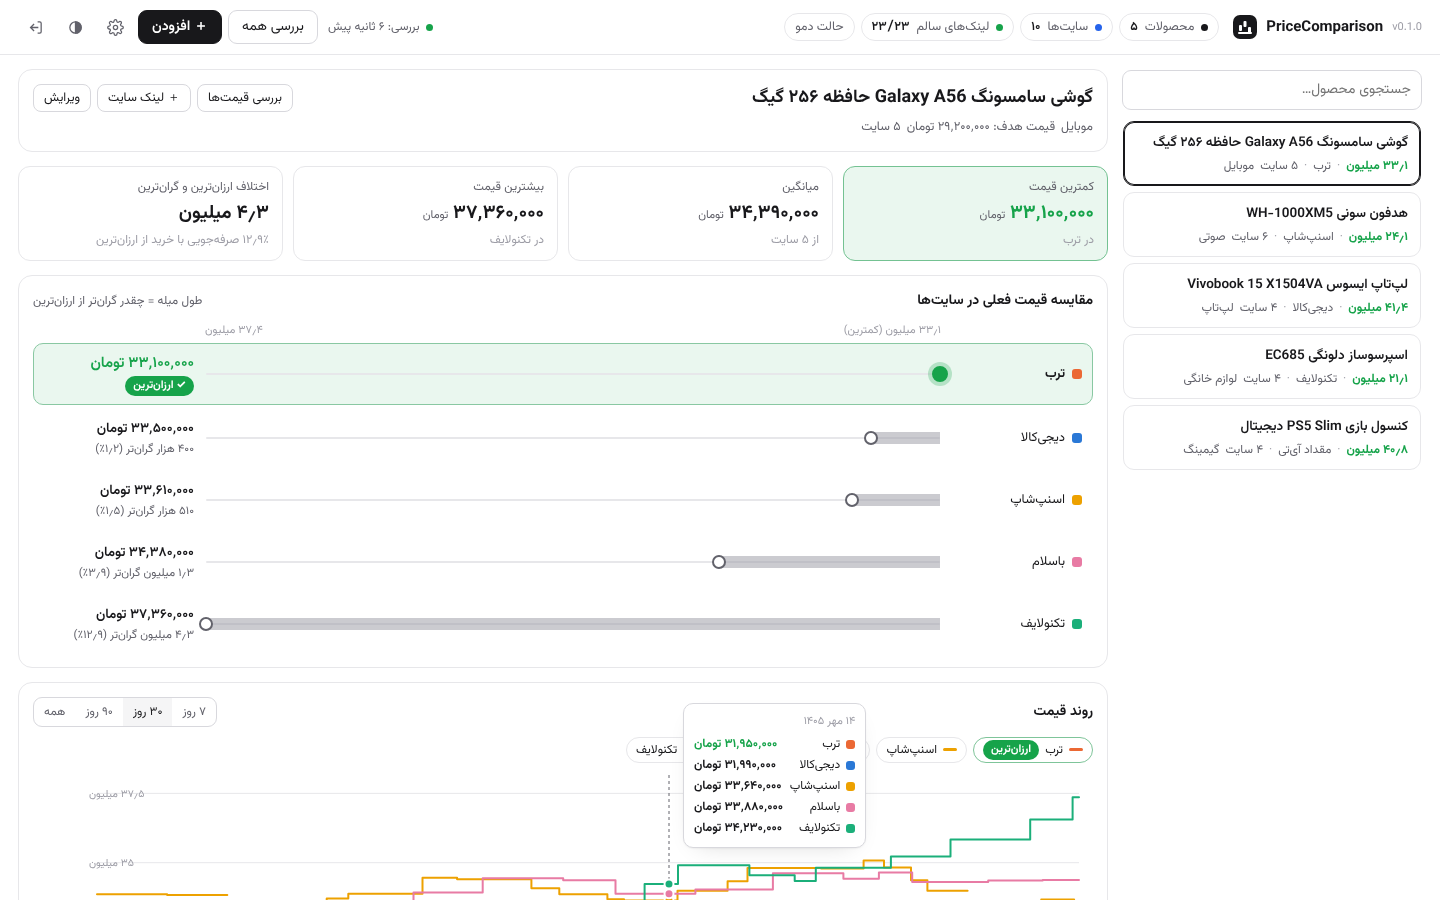
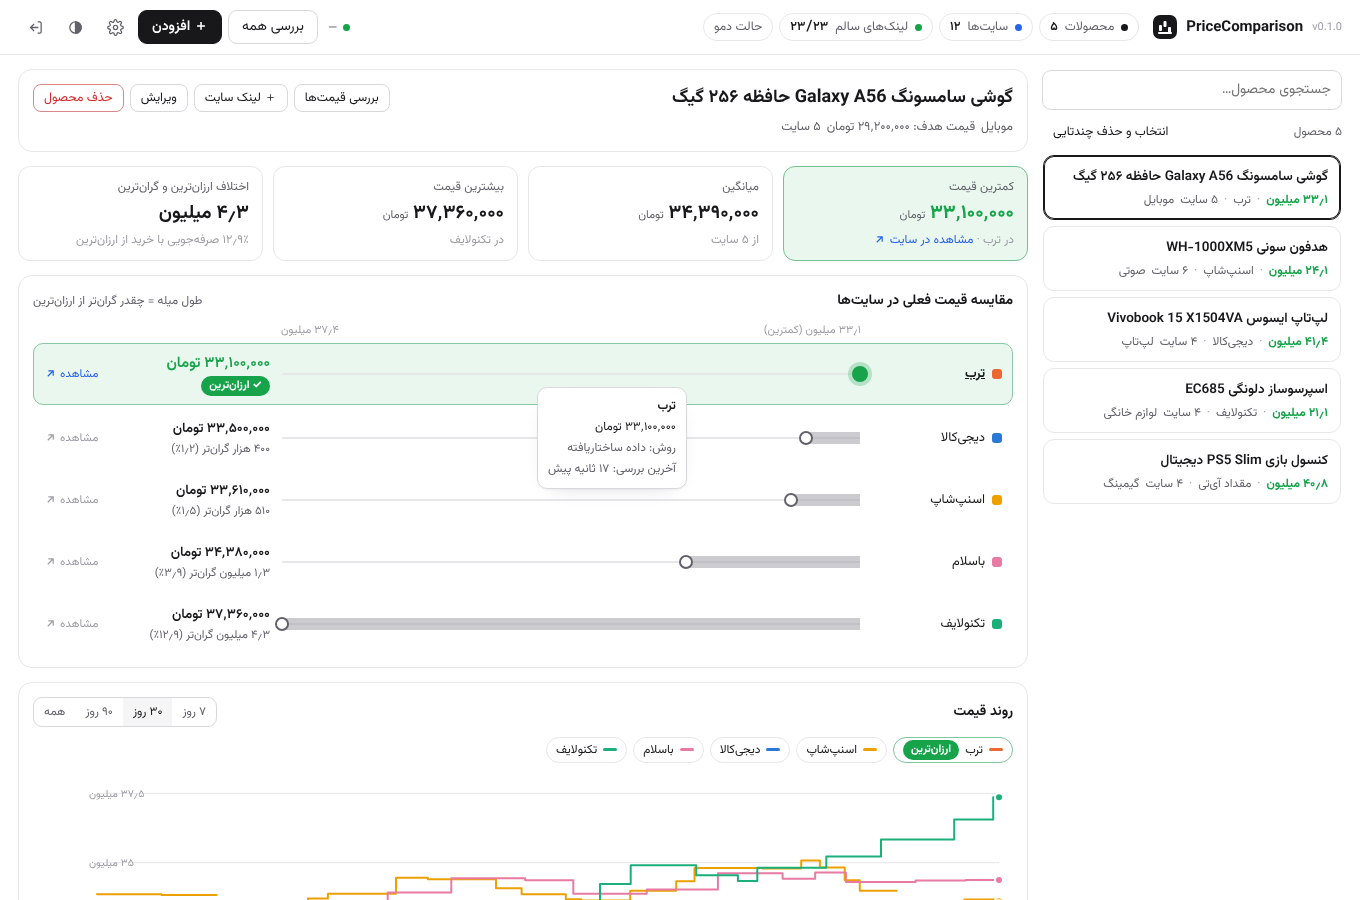
Open a product on the shop's site, delete products singly or in bulk
Every shop row in the comparison chart is now a link to that product's
page on the shop (new tab), as are the cheapest-price tile and the shop
name in the links table. Deleting a product moves to the product header,
and the product list gets a multi-select mode to delete many at once,
backed by POST /api/products/delete.

Claude-Session: https://claude.ai/code/session_01UvKrJnp3iHtxL17mNZLV8n

diff --git a/pricecomparison/static/app.js b/pricecomparison/static/app.js
@@ -70,6 +70,7 @@ function short(v) {
 }
 const pct = (v) => `${nf1.format(v)}٪`;
 const site = (id) => S.sites.find((s) => s.id === id);
+const shopLink = (o, label) => `<a class="shop" href="${esc(o.url)}" target="_blank" rel="noopener noreferrer">${label} ${ICON.go}</a>`;
 const product = (id) => S.products.find((p) => p.id === id);
 const offersOf = (pid) => S.offers.filter((o) => o.product_id === pid);
 const sname = (id) => (site(id) || {}).name || "?";
@@ -110,8 +111,8 @@ function clock(ts) {
 }
 const date = (ts, opt = { month: "short", day: "numeric" }) => new Date(ts * 1000).toLocaleDateString("fa-IR", opt);
 const ICON = {
+  go: `<svg viewBox="0 0 24 24" width="13" height="13" fill="none" stroke="currentColor" stroke-width="2.2"><path d="M7 17 17 7M8 7h9v9"/></svg>`,
   check: `<svg viewBox="0 0 24 24" width="15" height="15" fill="none" stroke="currentColor" stroke-width="2"><path d="M3 12a9 9 0 1 0 3-6.7L3 8M3 3v5h5"/></svg>`,
-  open: `<svg viewBox="0 0 24 24" width="15" height="15" fill="none" stroke="currentColor" stroke-width="2"><path d="M14 4h6v6M20 4l-9 9M18 14v5a1 1 0 0 1-1 1H5a1 1 0 0 1-1-1V7a1 1 0 0 1 1-1h5"/></svg>`,
   pause: `<svg viewBox="0 0 24 24" width="15" height="15" fill="none" stroke="currentColor" stroke-width="2"><path d="M9 5v14M15 5v14"/></svg>`,
   play: `<svg viewBox="0 0 24 24" width="15" height="15" fill="none" stroke="currentColor" stroke-width="2"><path d="M7 5l12 7-12 7z"/></svg>`,
   del: `<svg viewBox="0 0 24 24" width="15" height="15" fill="none" stroke="currentColor" stroke-width="2"><path d="M4 7h16M10 11v6M14 11v6M6 7l1 13h10l1-13M9 7V4h6v3"/></svg>`,
@@ -207,16 +208,30 @@ setInterval(() => {
 }, 1000);
 
 /* ---------------------------------------------------------- product list */
-function renderList() {
+let picking = false;          // product list in multi-select mode
+const picked = new Set();
+const listed = () => {
   const q = query.trim().toLowerCase();
-  const list = S.products.filter((p) => !q || p.name.toLowerCase().includes(q) || (p.category || "").toLowerCase().includes(q));
+  return S.products.filter((p) => !q || p.name.toLowerCase().includes(q) || (p.category || "").toLowerCase().includes(q));
+};
+
+function renderList() {
+  const list = listed();
+  for (const id of [...picked]) if (!product(id)) picked.delete(id);
+  $("#pcount").textContent = query.trim() ? `${nf.format(list.length)} از ${nf.format(S.products.length)} محصول` : `${nf.format(S.products.length)} محصول`;
+  $("#btn-pick").classList.toggle("hidden", !S.products.length);
+  $("#btn-pick").textContent = picking ? "لغو انتخاب" : "انتخاب و حذف چندتایی";
+  $("#pick-bar").classList.toggle("hidden", !picking);
+  $("#pick-n").textContent = `${nf.format(picked.size)} انتخاب شده`;
+  $("#pick-del").disabled = !picked.size;
+  $("#pitems").classList.toggle("picking", picking);
   $("#pitems").innerHTML = list.map((p) => {
     const sm = summary(p.id);
     const best = sm.best
       ? `<b>${short(sm.min)}</b><span class="sep">·</span><span>${esc(sname(sm.best.site_id))}</span>`
       : `<span>${sm.all.length ? "قیمتی خوانده نشده" : "بدون لینک"}</span>`;
-    return `<button class="pitem ${p.id === sel ? "on" : ""}" data-p="${p.id}">
-      <span class="pn">${esc(p.name)}</span>
+    return `<button class="pitem ${p.id === sel && !picking ? "on" : ""} ${picked.has(p.id) ? "picked" : ""}" data-p="${p.id}">
+      <span class="pn">${picking ? `<input type="checkbox" tabindex="-1" ${picked.has(p.id) ? "checked" : ""}> ` : ""}${esc(p.name)}</span>
       <span class="pp">${best}<span class="sep">·</span><span>${nf.format(sm.all.length)} سایت</span>
       ${sm.errors ? `<span class="chip bad">${nf.format(sm.errors)} خطا</span>` : ""}
       ${p.category ? `<span class="chip">${esc(p.category)}</span>` : ""}</span></button>`;
@@ -226,7 +241,22 @@ $("#psearch").oninput = (e) => { query = e.target.value; renderList(); };
 $("#pitems").onclick = (e) => {
   const b = e.target.closest("[data-p]");
   if (!b) return;
-  select(b.dataset.p);
+  if (!picking) return select(b.dataset.p);
+  e.preventDefault();
+  picked.has(b.dataset.p) ? picked.delete(b.dataset.p) : picked.add(b.dataset.p);
+  renderList();
+};
+$("#btn-pick").onclick = () => { picking = !picking; picked.clear(); renderList(); };
+$("#pick-all").onclick = () => { listed().forEach((p) => picked.add(p.id)); renderList(); };
+$("#pick-none").onclick = () => { picked.clear(); renderList(); };
+$("#pick-del").onclick = async () => {
+  const ids = [...picked];
+  if (!ids.length || !confirm(`${nf.format(ids.length)} محصول و همه لینکها و تاریخچه قیمتشان حذف شود؟`)) return;
+  const r = await act(() => api("POST", "/api/products/delete", { ids }));
+  toast(`${nf.format(r.deleted)} محصول حذف شد`, "success");
+  picking = false;
+  picked.clear();
+  if (S) renderList();
 };
 function select(pid) {
   sel = pid;
@@ -266,12 +296,13 @@ function renderDetail() {
           <button class="btn sm" data-check-product="${p.id}" ${working ? "disabled" : ""}>${working ? `<span class="spin"></span> در حال بررسی` : "بررسی قیمتها"}</button>
           <button class="btn sm" data-add="offer">＋ لینک سایت</button>
           <button class="btn sm" data-edit-product="${p.id}">ویرایش</button>
+          <button class="btn sm danger" data-del-product="${p.id}">حذف محصول</button>
         </div>
       </div>
     </div>
     <div class="tiles">
       <div class="tile best"><span class="k">کمترین قیمت</span><span class="v">${sm.min != null ? `${num(sm.min)} <small>تومان</small>` : "—"}</span>
-        <span class="s">${sm.best ? `در ${esc(sname(sm.best.site_id))}` : "—"}</span></div>
+        <span class="s">${sm.best ? `در ${esc(sname(sm.best.site_id))} · ${shopLink(sm.best, "مشاهده در سایت")}` : "—"}</span></div>
       <div class="tile"><span class="k">میانگین</span><span class="v">${sm.avg != null ? `${num(sm.avg)} <small>تومان</small>` : "—"}</span>
         <span class="s">از ${nf.format(sm.ok.length)} سایت</span></div>
       <div class="tile"><span class="k">بیشترین قیمت</span><span class="v">${sm.max != null ? `${num(sm.max)} <small>تومان</small>` : "—"}</span>
@@ -290,7 +321,7 @@ function renderDetail() {
       <div class="chart-wrap" id="hchart"></div>
     </div>
     <div class="panel">
-      <div class="panel-head"><h3>لینکها</h3><button class="btn sm danger" data-del-product="${p.id}">حذف محصول</button></div>
+      <div class="panel-head"><h3>لینکها</h3><span class="muted small">روی نام هر سایت بزنید تا صفحه محصول در همان سایت باز شود</span></div>
       <div class="table-wrap"><table class="grid">${offerTable(sm)}</table></div>
     </div>`;
   renderHistory();
@@ -326,12 +357,12 @@ function compareChart(sm) {
       const word = !o.enabled || !s.enabled ? "غیرفعال" : o.status === "out" ? "ناموجود" : o.status === "error" ? "خطا در خواندن" : "در انتظار بررسی";
       val = `<b>${word}</b><span>${o.price ? `آخرین قیمت: ${short(o.price)}` : "&nbsp;"}</span>`;
     }
-    return `<div class="crow ${cls}" data-tip-offer="${o.id}">
+    return `<a class="crow ${cls}" data-tip-offer="${o.id}" href="${esc(o.url)}" target="_blank" rel="noopener noreferrer">
       <span class="cs"><i class="sw2" style="background:${siteColor(o.site_id, o.product_id)}"></i><span>${esc(s.name || "?")}</span></span>
-      <span class="track">${track}</span><span class="cv">${val}</span></div>`;
+      <span class="track">${track}</span><span class="cv">${val}</span><span class="go">مشاهده ${ICON.go}</span></a>`;
   }).join("");
   const axis = sm.ok.length > 1
-    ? `<div class="cmp-axis"><span></span><span class="ax"><span>${short(sm.min)} (کمترین)</span><span>${short(sm.max)}</span></span><span></span></div>` : "";
+    ? `<div class="cmp-axis"><span></span><span class="ax"><span>${short(sm.min)} (کمترین)</span><span>${short(sm.max)}</span></span><span></span><span></span></div>` : "";
   return `<div class="cmp">${axis}${rows}</div>`;
 }
 
@@ -349,7 +380,7 @@ function offerTable(sm) {
     const diff = live(o) && sm.min != null ? (o.price === sm.min ? `<span class="badge-best">ارزانترین</span>` : `<span class="diff-up">+${short(o.price - sm.min)} (${pct(((o.price - sm.min) / sm.min) * 100)})</span>`) : "—";
     const method = o.method ? `<span class="chip ${o.method === "text" ? "warn" : ""}" title="${o.method === "text" ? "قیمت از متن صفحه حدس زده شده؛ بهتر است برای این سایت CSS selector تنظیم شود" : ""}">${esc(METHOD[o.method] || o.method)}</span>` : "—";
     return `<tr class="${isBest ? "best" : ""} ${o.enabled ? "" : "off"}">
-      <td><span class="cs" style="display:inline-flex;gap:7px;align-items:center"><i class="sw2" style="width:10px;height:10px;border-radius:3px;background:${siteColor(o.site_id, o.product_id)}"></i>${esc(sname(o.site_id))}</span>
+      <td><a class="cs shop" href="${esc(o.url)}" target="_blank" rel="noopener noreferrer" title="باز کردن صفحه محصول در ${esc(sname(o.site_id))}"><i class="sw2" style="width:10px;height:10px;border-radius:3px;background:${siteColor(o.site_id, o.product_id)}"></i>${esc(sname(o.site_id))} ${ICON.go}</a>
         <div><a class="url" href="${esc(o.url)}" target="_blank" rel="noopener noreferrer" title="${esc(o.url)}">${esc(o.url.replace(/^https?:\/\/(www\.)?/, ""))}</a></div></td>
       <td class="price">${o.price ? toman(o.price) : "—"}</td>
       <td>${o.old_price ? `<span class="old">${num(o.old_price)}</span>` : "—"}</td>
@@ -358,7 +389,7 @@ function offerTable(sm) {
       <td>${st}${o.status === "error" && o.error ? `<div class="small" style="color:var(--down);max-width:260px;white-space:normal">${esc(o.error)}</div>` : ""}</td>
       <td><span class="row-acts">
         <button class="btn icon" data-check-offer="${o.id}" title="بررسی همین لینک">${ICON.check}</button>
-        <a class="btn icon" href="${esc(o.url)}" target="_blank" rel="noopener noreferrer" title="باز کردن صفحه">${ICON.open}</a>
+        <a class="btn sm" href="${esc(o.url)}" target="_blank" rel="noopener noreferrer" title="باز کردن صفحه محصول در ${esc(sname(o.site_id))}">مشاهده در سایت ${ICON.go}</a>
         <button class="btn icon" data-toggle-offer="${o.id}" title="${o.enabled ? "غیرفعال کردن" : "فعال کردن"}">${o.enabled ? ICON.pause : ICON.play}</button>
         <button class="btn icon" data-del-offer="${o.id}" title="حذف لینک">${ICON.del}</button></span></td></tr>`;
   }).join("");

diff --git a/pricecomparison/static/style.css b/pricecomparison/static/style.css
@@ -182,7 +182,7 @@ legend { color: var(--muted); font-size: 12px; padding: 0 6px; }
 /* ---------- workbench: product list + detail ---------- */
 .bench { display: grid; grid-template-columns: 300px minmax(0, 1fr); gap: 14px; align-items: start; }
 @media (max-width: 960px) { .bench { grid-template-columns: minmax(0, 1fr); } }
-.plist { position: sticky; top: 70px; display: grid; gap: 10px; max-height: calc(100vh - 90px); grid-template-rows: auto minmax(0, 1fr); }
+.plist { position: sticky; top: 70px; display: grid; gap: 8px; max-height: calc(100vh - 90px); grid-template-rows: auto auto auto minmax(0, 1fr); }
 @media (max-width: 960px) { .plist { position: static; max-height: none; } }
 .plist input[type=search] { width: 100%; }
 .pitems { display: grid; gap: 6px; overflow: auto; align-content: start; padding: 1px; }
@@ -214,10 +214,13 @@ legend { color: var(--muted); font-size: 12px; padding: 0 6px; }
 
 /* gap-from-cheapest chart */
 .cmp { display: grid; gap: 4px; }
-.cmp-axis { display: grid; grid-template-columns: 130px minmax(0, 1fr) 150px; gap: 12px; font-size: 11px; color: var(--faint); padding: 0 10px; }
+.cmp-axis { display: grid; grid-template-columns: 130px minmax(0, 1fr) 150px 64px; gap: 12px; font-size: 11px; color: var(--faint); padding: 0 10px; }
 .cmp-axis .ax { display: flex; justify-content: space-between; }
-.crow { display: grid; grid-template-columns: 130px minmax(0, 1fr) 150px; gap: 12px; align-items: center; padding: 8px 10px; border-radius: 10px; border: 1px solid transparent; cursor: default; }
+.crow { display: grid; grid-template-columns: 130px minmax(0, 1fr) 150px 64px; color: var(--text); text-decoration: none; cursor: pointer; gap: 12px; align-items: center; padding: 8px 10px; border-radius: 10px; border: 1px solid transparent; cursor: default; }
 .crow:hover { background: var(--surface2); }
+.crow .go { display: inline-flex; align-items: center; gap: 3px; font-size: 11.5px; color: var(--muted); white-space: nowrap; justify-self: end; }
+.crow:hover .go { color: var(--accent); }
+.crow:hover .cs span { text-decoration: underline; }
 .crow .cs { display: flex; align-items: center; gap: 7px; min-width: 0; font-size: 13px; }
 .crow .cs span { overflow: hidden; text-overflow: ellipsis; white-space: nowrap; }
 .crow .sw2 { width: 10px; height: 10px; border-radius: 3px; flex: none; }
@@ -237,7 +240,8 @@ legend { color: var(--muted); font-size: 12px; padding: 0 6px; }
 .crow.out .cv b, .crow.err .cv b { color: var(--faint); font-weight: 500; }
 .badge-best, .crow .cv .badge-best { display: inline-flex; align-items: center; gap: 4px; height: 20px; padding: 0 8px; border-radius: 999px; background: var(--best); color: #fff; font-size: 11px; font-weight: 700; white-space: nowrap; }
 @media (max-width: 620px) {
-  .crow, .cmp-axis { grid-template-columns: 92px minmax(0, 1fr) 108px; gap: 8px; padding-inline: 6px; }
+  .crow, .cmp-axis { grid-template-columns: 92px minmax(0, 1fr) 108px 18px; gap: 8px; padding-inline: 6px; }
+  .crow .go { font-size: 0; }
   .crow .cv b { font-size: 12.5px; } .crow.best .cv b { font-size: 13.5px; }
   .cmp-axis { display: none; }
 }
@@ -319,3 +323,17 @@ table.grid tr[data-site]:hover td { background: var(--surface2); }
   .ig-item { grid-template-columns: 16px minmax(0, 1fr) auto; }
   .ig-site { display: none; }
 }
+
+/* links to the shop's own product page */
+a.shop { color: var(--accent); text-decoration: none; display: inline-flex; align-items: center; gap: 4px; }
+a.shop:hover { text-decoration: underline; }
+td a.cs.shop { color: var(--text); font-weight: 500; gap: 7px; }
+td a.cs.shop svg { color: var(--accent); }
+.tile .s a.shop { font-size: 12px; }
+
+/* product list multi-select */
+.plist-tools { display: flex; align-items: center; justify-content: space-between; gap: 8px; }
+.pick-bar { display: flex; align-items: center; gap: 6px; padding: 6px 8px; border: 1px solid color-mix(in srgb, var(--down) 40%, var(--line)); border-radius: 10px; background: var(--surface); font-size: 12.5px; }
+.pitems.picking .pitem { cursor: default; }
+.pitem .pn input { vertical-align: -3px; margin-inline-end: 4px; pointer-events: none; }
+.pitem.picked { border-color: var(--down); box-shadow: inset 0 0 0 1px var(--down); }

diff --git a/pricecomparison/static/index.html b/pricecomparison/static/index.html
@@ -63,6 +63,13 @@
     <section class="bench">
       <aside class="plist">
         <input type="search" id="psearch" placeholder="جستجوی محصول…">
+        <div class="plist-tools"><span class="muted small" id="pcount"></span><button class="btn sm ghost" id="btn-pick">انتخاب و حذف چندتایی</button></div>
+        <div class="pick-bar hidden" id="pick-bar">
+          <span id="pick-n"></span><span style="flex:1"></span>
+          <button class="btn sm" id="pick-all" title="همه محصولاتی که الان در فهرست دیده میشوند">همه</button>
+          <button class="btn sm ghost" id="pick-none">هیچ</button>
+          <button class="btn sm danger" id="pick-del">حذف</button>
+        </div>
         <div class="pitems" id="pitems"></div>
       </aside>
       <section class="detail" id="detail"></section>

diff --git a/pricecomparison/app.py b/pricecomparison/app.py
@@ -151,6 +151,10 @@ class SettingsIn(BaseModel):
     user_agent: str = Field(min_length=10, max_length=400)
 
 
+class IdsIn(BaseModel):
+    ids: list[str] = Field(max_length=5000)
+
+
 class LoginIn(BaseModel):
     username: str
     password: str
@@ -403,6 +407,19 @@ def create_app(data_dir: str | Path | None = None, fetcher: Fetcher | None = Non
         await mon.emit("warning", "product", f"محصول «{p.name}» حذف شد")
         await mon.changed()
         return {"ok": True}
+
+    @app.post("/api/products/delete", dependencies=A)
+    async def del_products(body: IdsIn):
+        gone = [store.products.pop(pid) for pid in body.ids if pid in store.products]
+        ids = {p.id for p in gone}
+        for o in [o for o in store.offers.values() if o.product_id in ids]:
+            store.offers.pop(o.id, None)
+        for pid in ids:
+            store.meta.get("cheapest", {}).pop(pid, None)
+        if gone:
+            await mon.emit("warning", "product", f"{len(gone)} محصول حذف شد")
+        await mon.changed()
+        return {"deleted": len(gone)}
 
     @app.post("/api/products/{pid}/check", dependencies=A)
     async def check_product(pid: str):

diff --git a/tests/test_api.py b/tests/test_api.py
@@ -207,3 +207,12 @@ def test_category_import(env):
             break
         time.sleep(0.05)
     assert job["groups"][0]["product_id"] == cement.id
+
+
+def test_bulk_delete_products(env):
+    c, _, store = env
+    ids = [c.post("/api/products", json={"name": f"p{i}", "urls": [f"https://snappshop.ir/p/{i}"]}).json()["id"] for i in range(3)]
+    r = c.post("/api/products/delete", json={"ids": ids[:2] + ["nope"]}).json()
+    assert r == {"deleted": 2}
+    assert list(store.products) == [ids[2]]
+    assert [o.product_id for o in store.offers.values()] == [ids[2]]
